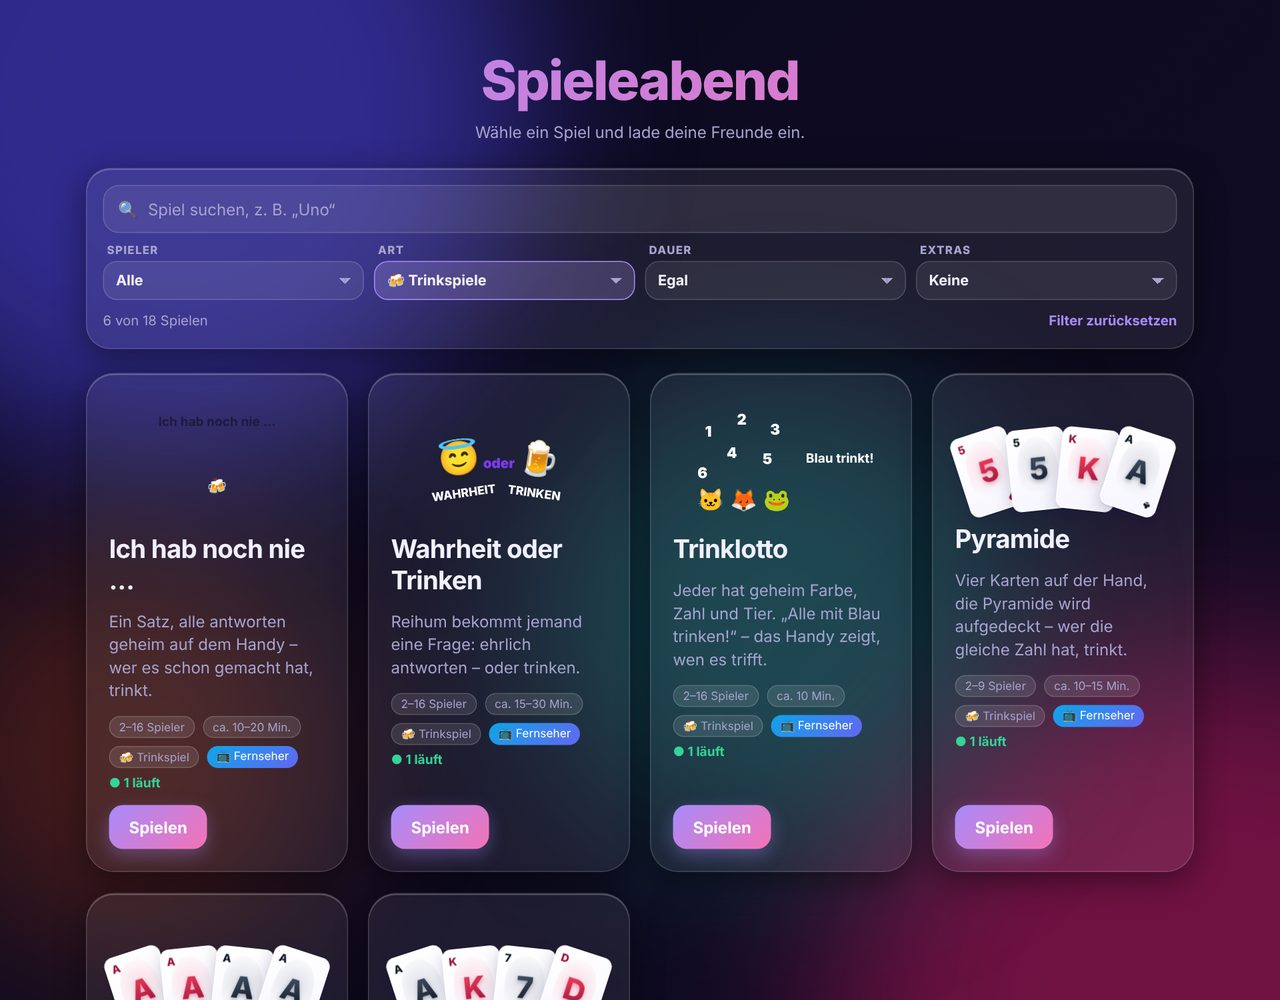
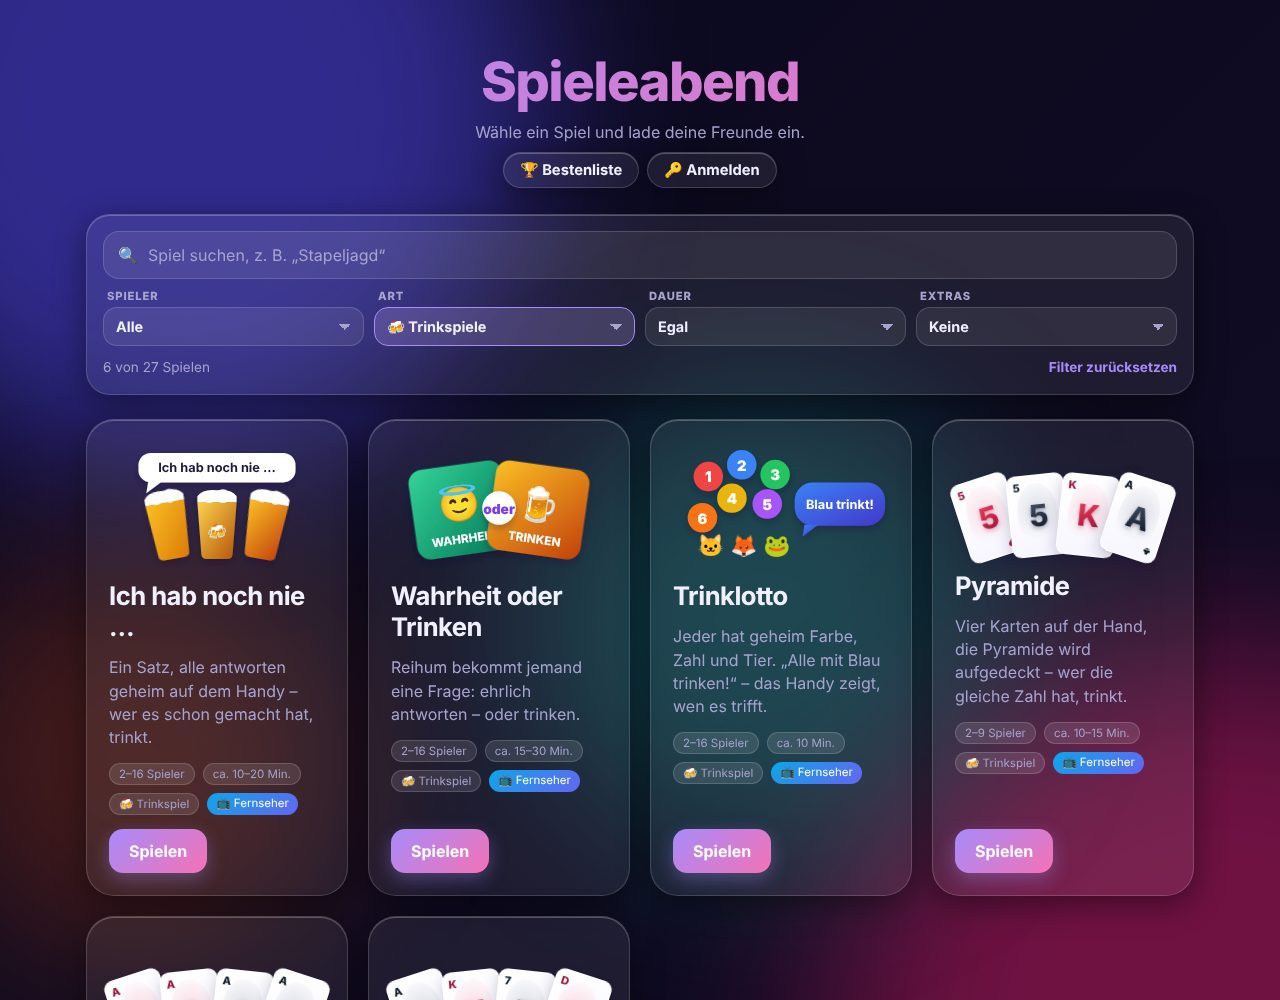
Spieleabend 3.5.1: README pictures for the new games; art ids fix
Screenshots from simulated rounds for Buzzer-Quiz, Sortierfix, Filmoji,
Codewörter, Stadt-Land-Fluss, Spion, Werwolf, Blind gezeichnet and
Schwimmen, plus new start page pictures (27 games). The start page art
gets unique gradient/filter ids per copy: a url(#id) pointing into a
tile hidden by the filter made shadows and gradients of visible tiles
vanish. Blind gezeichnet no longer says nobody drew anything once the
game is over. Achievement count in the docs is now 31.

Claude-Session: https://claude.ai/code/session_01WZ5YYnNazaZG1DJYRdXNNy

Changed region(s): [[0.0625, 0.155, 0.9375, 0.775], [0.0625, 0.434, 0.9375, 1.0], [0.375, 0.062, 0.625, 0.093]]

diff --git a/spieleabend/app/static/shared/art.js b/spieleabend/app/static/shared/art.js
@@ -134,6 +134,13 @@
     blindmaler: `<svg class="art" viewBox="0 0 220 120" role="img" aria-hidden="true"><defs><linearGradient id="bma" x1="0" y1="0" x2="1" y2="1"><stop offset="0" stop-color="#f472b6"/><stop offset="1" stop-color="#7c3aed"/></linearGradient><filter id="bmsh" x="-20%" y="-20%" width="140%" height="160%"><feDropShadow dx="0" dy="4" stdDeviation="4" flood-color="#140a3c" flood-opacity=".28"/></filter></defs><g filter="url(#bmsh)" transform="rotate(-4 80 60)"><rect x="18" y="12" width="124" height="94" rx="12" fill="#fff"/></g><g transform="rotate(-4 80 60)" fill="none" stroke="#1f2937" stroke-width="3.5" stroke-linecap="round" stroke-linejoin="round"><path d="M44 84 L46 52 L78 34 L112 54 L108 86 Z"/><path d="M50 50 L84 30 L118 52"/><path d="M70 86 L72 66 L86 64 L88 84"/><circle cx="98" cy="64" r="5"/><path d="M104 24 q14 -6 18 8"/></g><g filter="url(#bmsh)" transform="rotate(-8 178 46)"><rect x="146" y="32" width="66" height="28" rx="14" fill="url(#bma)"/></g><g transform="rotate(-8 178 46)" fill="none" stroke="#fff" stroke-width="3" stroke-linecap="round"><path d="M160 44 q6 7 12 0"/><path d="M184 44 q6 7 12 0"/></g><g filter="url(#bmsh)"><circle cx="176" cy="92" r="16" fill="#fff"/></g><text x="176" y="99" text-anchor="middle" font-size="18" font-weight="900" fill="#7c3aed" font-family="Inter,system-ui,sans-serif">?</text></svg>`,
     schwimmen: `<svg class="art" viewBox="0 0 220 120" role="img" aria-hidden="true"><defs><linearGradient id="sw1" x1="0" y1="0" x2="1" y2="1"><stop offset="0" stop-color="#38bdf8"/><stop offset="1" stop-color="#2563eb"/></linearGradient><linearGradient id="sw2" x1="0" y1="0" x2="1" y2="1"><stop offset="0" stop-color="#22d3ee"/><stop offset="1" stop-color="#4f46e5"/></linearGradient><linearGradient id="sw3" x1="0" y1="0" x2="1" y2="1"><stop offset="0" stop-color="#fbbf24"/><stop offset="1" stop-color="#ef4444"/></linearGradient><filter id="sh" x="-20%" y="-20%" width="140%" height="160%"><feDropShadow dx="0" dy="4" stdDeviation="4" flood-color="#140a3c" flood-opacity=".28"/></filter></defs><path d="M0 98 q14 -9 28 0 t28 0 t28 0 t28 0 t28 0 t28 0 t28 0 t28 0 V120 H0 Z" fill="url(#sw1)" opacity=".85"/><g transform="translate(52 18) rotate(-16 22 32)" filter="url(#sh)"><rect width="44" height="64" rx="7" fill="#fff"/><text x="6" y="13" font-size="10" font-weight="850" fill="#e11d48" font-family="Inter,system-ui,sans-serif">A</text><text x="22" y="40" text-anchor="middle" font-size="24" font-weight="850" fill="#e11d48" font-family="Inter,system-ui,sans-serif">A</text><text x="22" y="56" text-anchor="middle" font-size="14" fill="#e11d48" font-family="system-ui">♥</text></g><g transform="translate(84 10) rotate(-2 22 32)" filter="url(#sh)"><rect width="44" height="64" rx="7" fill="#fff"/><text x="6" y="13" font-size="10" font-weight="850" fill="#e11d48" font-family="Inter,system-ui,sans-serif">K</text><text x="22" y="40" text-anchor="middle" font-size="24" font-weight="850" fill="#e11d48" font-family="Inter,system-ui,sans-serif">K</text><text x="22" y="56" text-anchor="middle" font-size="14" fill="#e11d48" font-family="system-ui">♥</text></g><g transform="translate(116 16) rotate(13 22 32)" filter="url(#sh)"><rect width="44" height="64" rx="7" fill="#fff"/><text x="6" y="13" font-size="10" font-weight="850" fill="#e11d48" font-family="Inter,system-ui,sans-serif">D</text><text x="22" y="40" text-anchor="middle" font-size="24" font-weight="850" fill="#e11d48" font-family="Inter,system-ui,sans-serif">D</text><text x="22" y="56" text-anchor="middle" font-size="14" fill="#e11d48" font-family="system-ui">♥</text></g><path d="M0 106 q14 -8 28 0 t28 0 t28 0 t28 0 t28 0 t28 0 t28 0 t28 0 V120 H0 Z" fill="url(#sw2)"/><g filter="url(#sh)"><circle cx="182" cy="34" r="20" fill="url(#sw3)"/></g><text x="182" y="41" text-anchor="middle" font-size="19" font-weight="900" fill="#fff" font-family="Inter,system-ui,sans-serif">31</text><text x="30" y="50" text-anchor="middle" font-size="24" font-family="system-ui">🏊</text></svg>`,
   };
-  const fill = () => document.querySelectorAll("[data-art]").forEach(el => { el.innerHTML = window.ART[el.dataset.art] || ""; });
+  // Every copy gets its own gradient/filter ids: a url(#id) pointing into a hidden tile (filtered out on the
+  // start page) would otherwise make shadows and gradients of the visible copies disappear.
+  let copies = 0;
+  const unique = svg => {
+    const n = ++copies;
+    return svg.replace(/id="([^"]+)"/g, `id="$1-${n}"`).replace(/url\(#([^)]+)\)/g, `url(#$1-${n})`).replace(/href="#([^"]+)"/g, `href="#$1-${n}"`);
+  };
+  const fill = () => document.querySelectorAll("[data-art]").forEach(el => { el.innerHTML = window.ART[el.dataset.art] ? unique(window.ART[el.dataset.art]) : ""; });
   if (document.readyState === "loading") document.addEventListener("DOMContentLoaded", fill); else fill();
 })();

diff --git a/spieleabend/app/static/blindmaler/index.html b/spieleabend/app/static/blindmaler/index.html
@@ -209,7 +209,8 @@
 
     function revealHtml(g, ctx) {
       const d = g.drawing;
-      if (!d) return `<div class="blindtv">🙈</div><h2>Niemand hat etwas gezeichnet!</h2>`;
+      if (!d) return g.state === "finished" ? `<div class="blindtv">🖼</div><h2>Das war's – ab in die Galerie!</h2>`
+        : `<div class="blindtv">🙈</div><h2>Niemand hat etwas gezeichnet!</h2>`;
       const artist = g.players.find(p => p.id === d.by) || { name: d.name };
       const others = g.results.length;
       const hits = d.hits;

diff --git a/README.md b/README.md
@@ -19,7 +19,7 @@ Oder manuell: **Einstellungen → Add-ons → Add-on Store → ⋮ → Repositor
 
 Das zweite Add-on im Repository, **Spieleabend-Bestenliste**, macht aus jeder Partie angemeldeter Spieler
 (Konto mit E-Mail-Bestätigung direkt im Spieleabend) Punkte für
-die **Rangliste des Monats** (Neustart am 1.), vergibt **25 Achievements** und sammelt die
+die **Rangliste des Monats** (Neustart am 1.), vergibt **31 Achievements** und sammelt die
 Monatssieger in einer **Ruhmeshalle** – mit eigener Seite in Home Assistant und über den Knopf
 „🏆 Bestenliste“ direkt im Spieleabend. Details: [`bestenliste/DOCS.md`](bestenliste/DOCS.md).
 
@@ -50,6 +50,13 @@ Passende Farbe oder Zahl ablegen, die anderen mit +2 und +4 ärgern – und „L
 
 <p><img src="bilder/farbrausch.jpg" width="220" alt="farbrausch"></p>
 
+#### Schwimmen (31)
+*2–8 Spieler · 15–30 Min. · 📺*
+
+Drei Karten auf der Hand, drei in der Mitte: tauschen, schieben oder klopfen. Wer am Ende einer Runde die schlechteste Hand hat, verliert ein Leben – auch mit Computer-Spielern.
+
+<p><img src="bilder/schwimmen-1.jpg" width="220" alt="schwimmen-1"> <img src="bilder/schwimmen-2.jpg" width="220" alt="schwimmen-2"> <img src="bilder/schwimmen-tv.jpg" width="440" alt="schwimmen-tv"></p>
+
 ### Zeichnen
 
 #### Kritzelpost
@@ -66,6 +73,13 @@ Einer zeichnet am Handy, alle anderen raten. Mit dem Fernseher als großem Bilds
 
 <p><img src="bilder/schnellmaler.jpg" width="220" alt="schnellmaler"> <img src="bilder/schnellmaler-tv.jpg" width="440" alt="schnellmaler-tv"></p>
 
+#### Blind gezeichnet
+*3–12 Spieler · 10–20 Min. · 📺*
+
+Jeder zeichnet seinen Begriff, ohne die eigenen Striche zu sehen – danach raten alle, was das sein soll. Am Ende gibt es eine Galerie.
+
+<p><img src="bilder/blindmaler-1.jpg" width="220" alt="blindmaler-1"> <img src="bilder/blindmaler-2.jpg" width="220" alt="blindmaler-2"> <img src="bilder/blindmaler-tv.jpg" width="440" alt="blindmaler-tv"></p>
+
 ### Wörter
 
 #### Wortgitter
@@ -81,6 +95,20 @@ Fünf Buchstaben, sechs Versuche – Wort des Tages oder endlos.
 Einer denkt sich ein Wort aus, alle anderen raten Buchstabe für Buchstabe, bevor der Galgen fertig ist.
 
 <p><img src="bilder/galgenraten.jpg" width="220" alt="galgenraten"></p>
+
+#### Codewörter
+*4–16 Spieler · 15–30 Min. · 📺*
+
+Team Rot gegen Team Blau. Nur der Hinweisgeber kennt die Farben der 25 Karten und gibt ein Wort mit einer Zahl – aber bloß nicht den Attentäter aufdecken!
+
+<p><img src="bilder/codewoerter-1.jpg" width="220" alt="codewoerter-1"> <img src="bilder/codewoerter-2.jpg" width="220" alt="codewoerter-2"> <img src="bilder/codewoerter-tv.jpg" width="440" alt="codewoerter-tv"></p>
+
+#### Stadt-Land-Fluss
+*2–16 Spieler · 10–25 Min. · 📺*
+
+Der Klassiker mit „Stopp!“-Knopf. Danach werden die Antworten verglichen, zweifelhafte können per Abstimmung gestrichen werden.
+
+<p><img src="bilder/stadtlandfluss-1.jpg" width="220" alt="stadtlandfluss-1"> <img src="bilder/stadtlandfluss-2.jpg" width="220" alt="stadtlandfluss-2"> <img src="bilder/stadtlandfluss-tv.jpg" width="440" alt="stadtlandfluss-tv"></p>
 
 ### Quiz & Party
 
@@ -118,6 +146,41 @@ Alle ergänzen denselben Satz so lustig wie möglich – danach wird anonym die 
 Alle kennen das geheime Wort – nur einer nicht. Reihum ein Hinweiswort, dann abstimmen.
 
 <p><img src="bilder/imposter.jpg" width="220" alt="imposter"></p>
+
+#### Buzzer-Quiz
+*2–16 Spieler · 10–20 Min. · 📺*
+
+Wer zuerst buzzert, darf antworten: richtig +3, falsch −2. Mit Kategorien, z. B. 🔩 Metallbau (Ausbildung).
+
+<p><img src="bilder/buzzer-1.jpg" width="220" alt="buzzer-1"> <img src="bilder/buzzer-2.jpg" width="220" alt="buzzer-2"> <img src="bilder/buzzer-tv.jpg" width="440" alt="buzzer-tv"></p>
+
+#### Sortierfix
+*2–16 Spieler · 10–20 Min. · 📺*
+
+Fünf Dinge in die richtige Reihenfolge bringen – Jahreszahlen, Höhen, Einwohner oder Schmelzpunkte.
+
+<p><img src="bilder/sortierfix-1.jpg" width="220" alt="sortierfix-1"> <img src="bilder/sortierfix-2.jpg" width="220" alt="sortierfix-2"> <img src="bilder/sortierfix-tv.jpg" width="440" alt="sortierfix-tv"></p>
+
+#### Filmoji
+*1 Spieler · 5–15 Min.*
+
+Welcher Film steckt hinter den Emojis? 165 Filme, Tipps kosten Punkte, nach drei Herzen ist Schluss.
+
+<p><img src="bilder/filmoji-1.jpg" width="220" alt="filmoji-1"> <img src="bilder/filmoji-2.jpg" width="220" alt="filmoji-2"></p>
+
+#### Spion
+*3–16 Spieler · 20–45 Min. · 📺*
+
+Alle kennen den geheimen Ort und ihre Rolle – nur der Spion nicht. Fragt euch aus und entlarvt ihn, bevor er den Ort errät.
+
+<p><img src="bilder/spion-1.jpg" width="220" alt="spion-1"> <img src="bilder/spion-2.jpg" width="220" alt="spion-2"> <img src="bilder/spion-tv.jpg" width="440" alt="spion-tv"></p>
+
+#### Werwolf
+*5–18 Spieler · 20–40 Min. · 📺*
+
+Die Handys sind der Spielleiter: Nachts jagen die Werwölfe, Seherin und Hexe helfen dem Dorf, tagsüber wird abgestimmt.
+
+<p><img src="bilder/werwolf-1.jpg" width="220" alt="werwolf-1"> <img src="bilder/werwolf-2.jpg" width="220" alt="werwolf-2"> <img src="bilder/werwolf-tv.jpg" width="440" alt="werwolf-tv"></p>
 
 ### Trinkspiele 🍻
 

diff --git a/bestenliste/DOCS.md b/bestenliste/DOCS.md
@@ -10,7 +10,7 @@ Rangliste und Achievements für den **Spieleabend**. Jede beendete Partie landet
   kommen in die **Ruhmeshalle**, der Sieger bekommt das Achievement „Spieler des Monats“. Alte
   Monate kannst du oben im Auswahlfeld weiter ansehen.
 - **Beste pro Spiel:** Wer in welchem Spiel diesen Monat am häufigsten gewonnen hat.
-- **Achievements** (25 Stück) bleiben für immer, z. B. 🔥 3 Siege hintereinander, 🎯 Volltreffer
+- **Achievements** (31 Stück) bleiben für immer, z. B. 🔥 3 Siege hintereinander, 🎯 Volltreffer
   im Schätzmeister, 🕵 3-mal als Imposter gewonnen, 🦉 Partie nach Mitternacht, 🏃 5 Partien an
   einem Abend. Ein Klick auf einen Namen zeigt alle Achievements mit Fortschritt.
 - Neue Achievements und ein neuer Spitzenreiter erscheinen am Ende der Partie direkt im Spiel.

diff --git a/spieleabend/CHANGELOG.md b/spieleabend/CHANGELOG.md
@@ -1,5 +1,12 @@
 # Changelog
 
+## 3.5.1
+
+- Startseite: Beim Filtern verloren einige Spielbilder Schatten und Farbverläufe (z. B. bei
+  „Ich hab noch nie …“). Jede Abbildung hat jetzt eigene Kennungen.
+- Blind gezeichnet: Nach Spielende stand hinter dem Ergebnis „Niemand hat etwas gezeichnet!“.
+- README: Bilder zu allen neuen Spielen und neue Startseiten-Bilder.
+
 ## 3.5.0
 
 - **Filmoji** ersetzt Emoji-Rätsel: nur Filme (165 Stück, von Disney bis Der Pate) und als Spiel
